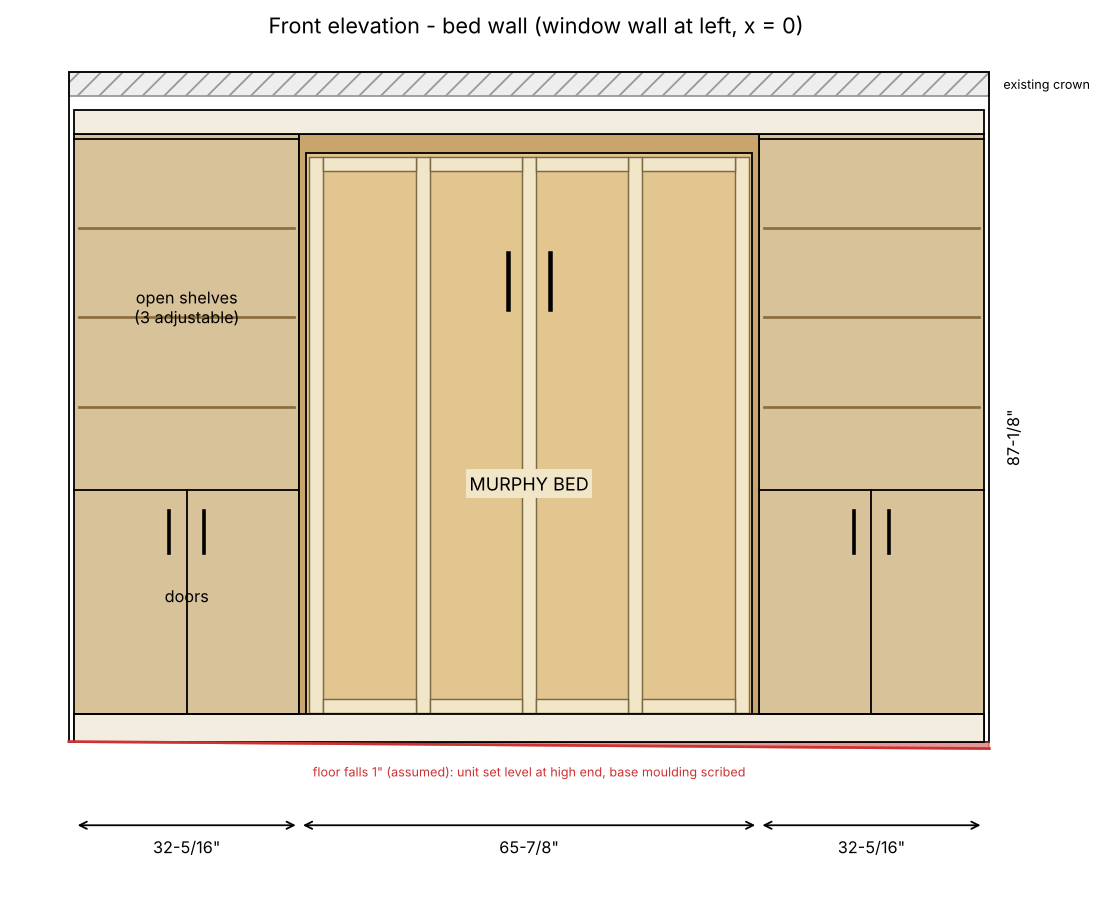
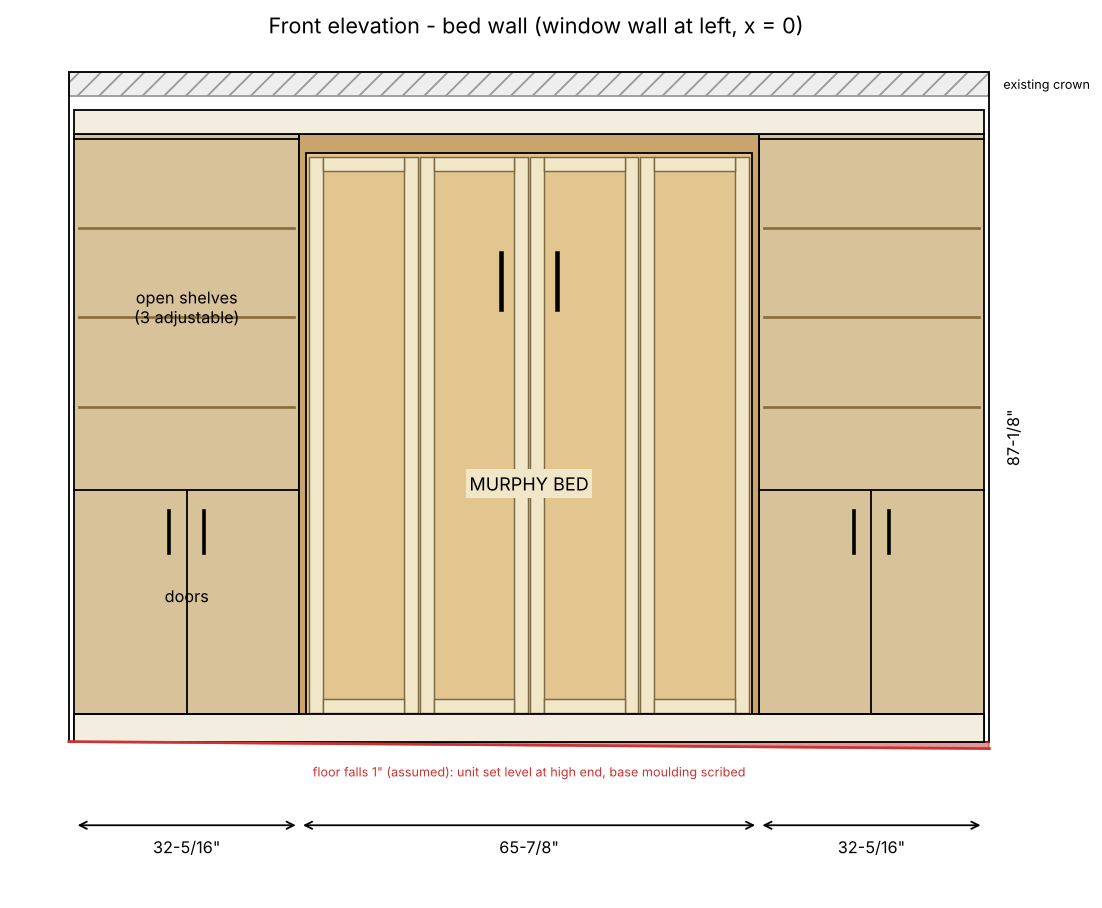
Switch face paneling to mitred frames of crown-family panel moulding; weight limits and tests
Claude-Session: https://claude.ai/code/session_01KugbWEtLNVU8bq7dW5xBvy

Changed region(s): [[0.5554, 0.1542, 0.6171, 0.8018], [0.3394, 0.1542, 0.4011, 0.8018], [0.4319, 0.1542, 0.5245, 0.8018]]

diff --git a/murphy-bed/design.py b/murphy-bed/design.py
@@ -52,15 +52,20 @@ HEADER_FRONT_RAIL = 2.75  # plans p.6 part H front rail covers the top of the op
 FACE_PANEL_BOTTOM = BED_H - HEADER_FRONT_RAIL - FACE_PANEL_H   # ~2-5/8" above the floor
 FACE_PANEL_W = 64.0     # two 32" panels side by side (plans p.6 part E)
 FACE_PANEL_STYLE = 'full'   # kit p.3: 'full' = full-length stiles, 'split' = adds a middle rail
-FACE_TRIM_W, FACE_TRIM_T = 2.0, 0.25   # flat strips applied to the panel (ASSUMED; thin to save weight)
+FACE_TRIM_KIND = 'frames'   # 'frames' = one mitred frame of profiled panel moulding per panel (crown-family profile); 'flat' = 1/4" flat strips
+FACE_TRIM_W = 2.0       # moulding face width (ASSUMED)
+FACE_TRIM_T = 0.75 if FACE_TRIM_KIND == 'frames' else 0.25   # moulding thickness, ASSUMED 3/4" stock
+FACE_PROFILE_FILL = 2 / 3   # ASSUMED: share of the 3/4 x 2 rectangle left after the profile is cut
+FACE_TRIM_AREA = FACE_TRIM_W * FACE_TRIM_T * FACE_PROFILE_FILL   # sq in cross-section (about 1.0 for 3/4 x 2)
+FACE_FRAME_GAP = 0.25   # gap between neighbouring frames; the centre gap sits over the seam between the two 32" panels
 FACE_TRIM_INSET = 0.5   # strips stay this far inside the panel edges so nothing catches on the verticals/header
 FACE_TRIM_BOTTOM = max(FACE_TRIM_INSET, BASE_H + 0.125 - FACE_PANEL_BOTTOM)   # keep strips above the base moulding
 FACE_SPLIT_Z = 29.0     # split style: bottom of the middle rail, measured up from the panel bottom
 FACE_TRIM_DENSITY = 0.0162   # lb per cubic inch, poplar (~28 lb/ft^3); MDF is ~0.0278
 PLY_DENSITY = 0.0226    # lb per cubic inch, birch plywood (~39 lb/ft^3)
-MATTRESS_LB = 70.0      # ASSUMED: weigh yours. Kit spec for a queen is 65-80 lb (plans p.1)
+MATTRESS_LB = 65.0      # ASSUMED: the lightest queen the kit allows; weigh yours. Kit spec is 65-80 lb (plans p.1)
 MATTRESS_MAX_LB = 80.0
-HANDLE_OFFSET = 3.0     # handle centre distance from the panel centre line
+HANDLE_OFFSET = 4.0     # handle centre distance from the panel centre line
 HANDLE_Z = (62.0, 70.0)  # handle bar height above the floor (kit says 5'-6')
 LOWER_H = 36.0          # top of lower (doored) section
 KERF = 0.125            # user's saw blade is at least 1/8"; every cut in the layouts costs this much
@@ -131,9 +136,20 @@ def tower_parts():
 
 
 def face_trim_layout():
-    """Flat strips applied to the face panels, in panel coordinates (x from left edge, z from bottom edge)."""
+    """Applied moulding on the face panels, as non-overlapping pieces in panel coordinates (x from left edge, z from bottom edge).
+    Frame style: rails are shown between the stiles; their cut length (mitre long point) is longer, see face_trim_parts()."""
     inset, sw, bot = FACE_TRIM_INSET, FACE_TRIM_W, FACE_TRIM_BOTTOM
     frame_w, frame_h = FACE_PANEL_W - 2 * inset, FACE_PANEL_H - inset - bot
+    if FACE_TRIM_KIND == 'frames':
+        fw = (frame_w - 3 * FACE_FRAME_GAP) / 4
+        out = []
+        for i in range(4):
+            x0 = inset + i * (fw + FACE_FRAME_GAP)
+            out.append(('Face frame stile', x0, bot, sw, frame_h))
+            out.append(('Face frame stile', x0 + fw - sw, bot, sw, frame_h))
+            out.append(('Face frame rail', x0 + sw, bot, fw - 2 * sw, sw))
+            out.append(('Face frame rail', x0 + sw, bot + frame_h - sw, fw - 2 * sw, sw))
+        return out
     opening = (frame_w - 5 * sw) / 4
     out = [('Face moulding stile', inset + i * (opening + sw), bot, sw, frame_h) for i in range(5)]
     for j in range(4):
@@ -145,14 +161,29 @@ def face_trim_layout():
     return out
 
 
+def _cut_length(name, w, h):
+    """Length to buy/cut for one piece: frame rails are mitred, so they run to the long point (inner length + 2 x width)."""
+    if FACE_TRIM_KIND == 'frames' and 'rail' in name:
+        return w + 2 * FACE_TRIM_W
+    return max(w, h)
+
+
+def face_trim_pieces():
+    return [(n, _cut_length(n, w, h)) for n, _, _, w, h in face_trim_layout()]
+
+
 def face_trim_parts():
-    count = Counter((n, round(w, 4), round(h, 4)) for n, _, _, w, h in face_trim_layout())
-    return [Part(n, 'facetrim', 'solid', q, min(w, h), max(w, h), f'{frac(FACE_TRIM_T)} thick; square cuts, glue + 18 ga brads')
-            for (n, w, h), q in count.items()]
+    count = Counter((n, round(l, 4)) for n, l in face_trim_pieces())
+    if FACE_TRIM_KIND == 'frames':
+        note = f'{frac(FACE_TRIM_T)} x {frac(FACE_TRIM_W)} panel moulding, mitre both ends 45 degrees, length to the long point; glue + 1-1/4" 18 ga brads'
+    else:
+        note = f'{frac(FACE_TRIM_T)} thick; square cuts, glue + 18 ga brads'
+    return [Part(n, 'facetrim', 'solid', q, FACE_TRIM_W, l, note) for (n, l), q in count.items()]
 
 
 def face_trim_weight_lb():
-    return sum(w * h for _, _, _, w, h in face_trim_layout()) * FACE_TRIM_T * FACE_TRIM_DENSITY
+    area = FACE_TRIM_W * FACE_TRIM_T * (FACE_PROFILE_FILL if FACE_TRIM_KIND == 'frames' else 1.0)
+    return sum(l for _, l in face_trim_pieces()) * area * FACE_TRIM_DENSITY
 
 
 def moving_mass_lb():
@@ -364,18 +395,17 @@ vertical **and** each tower side: **{frac(notch_h)} tall x {frac(notch_d)} deep*
 - Iron slowly at medium-high heat, press with a block, trim the overhang with a banding trimmer or sharp chisel,
   and lightly sand the edge flush. Do the end grain first, then the long edges.
 
-## 5. Face-panel moulding ({FACE_PANEL_STYLE}-length style, kit p.3)
+## 5. Face-panel moulding ({"mitred frames in the crown's profile family" if FACE_TRIM_KIND == "frames" else FACE_PANEL_STYLE + "-length strips"})
 
-- **Layout.** Flat {frac(FACE_TRIM_W)} x {frac(FACE_TRIM_T)} strips on the two 32" face panels: 5 full-height stiles (the centre one covers the seam between the panels)
-  with short rails top and bottom{" and a middle rail" if FACE_PANEL_STYLE == "split" else ""}, making 4 equal panels about {frac((FACE_PANEL_W - 2 * FACE_TRIM_INSET - 5 * FACE_TRIM_W) / 4)} wide.
+{"- **Profile.** Ask the supplier for panel (picture-frame) moulding in the same family as your crown: same maker or the same curve, about 3/4 x 2 stock. Take a 6 inch offcut of the existing crown with you so they can match the curve." + chr(10) if FACE_TRIM_KIND == "frames" else ""}- **Layout.** {"Four mitred frames, one per panel, 8 stiles and 8 rails. Each frame is " + frac((FACE_PANEL_W - 2 * FACE_TRIM_INSET - 3 * FACE_FRAME_GAP) / 4) + " wide outside, with " + frac(FACE_FRAME_GAP) + " between frames. The centre gap sits over the seam between the two 32 inch face panels, so no frame crosses it." if FACE_TRIM_KIND == "frames" else "Flat strips with five full-height stiles and short rails top and bottom."}
   Keep everything {frac(FACE_TRIM_INSET)} inside the side and top edges so nothing catches on the cabinet verticals or the header as the bed swings, and start the
   bottom rail {frac(FACE_TRIM_BOTTOM)} up from the panel's bottom edge so it clears the {frac(BASE_H)} base moulding.
-- **Cutting and fastening.** Square cuts; rails butt between stiles. Glue and 5/8" 18 ga brads into the plywood only. Do not use anything longer than the panel is thick.
-  The strips stand {frac(FACE_TRIM_T)} proud of the panel, which puts them {frac(FACE_TRIM_T - 0.125)} proud of the cabinet front.
-- **Handles** (5'-6' high on the kit's p.21): bars {frac(HANDLE_OFFSET)} either side of the centre stile, which leaves {frac(HANDLE_OFFSET - 0.25 - FACE_TRIM_W / 2)} to the stile.
-- **Weight.** About {face_trim_weight_lb():.1f} lb of moulding. The kit sets the queen springs at #5 on a 1-5 scale and its instructions only describe turning the setting *down*
-  (assembly booklet p.11), so the springs have no extra power in reserve. Add the moulding **before** you balance the bed, then choose a mattress with
-  mattress + moulding at or below {MATTRESS_MAX_LB:.0f} lb (about {MATTRESS_MAX_LB - face_trim_weight_lb():.0f} lb mattress or lighter). Keep strips thin; 3/4" solid moulding would be several times this weight.
+- **Cutting.** {"Mitre both ends at 45 degrees, measuring each piece to the long point (stiles " + frac(FACE_PANEL_H - FACE_TRIM_INSET - FACE_TRIM_BOTTOM) + ", rails " + frac((FACE_PANEL_W - 2 * FACE_TRIM_INSET - 3 * FACE_FRAME_GAP) / 4) + "). Cut all eight stiles and eight rails from one setup so the frames match, cut a spare of each, and dry-fit a frame on the panel before gluing. Check the mitres on a flat surface first." if FACE_TRIM_KIND == "frames" else "Square cuts; rails butt between stiles."}
+- **Fastening.** Glue and 1-1/4 inch 18 ga brads into the plywood panel only (no longer than 1-1/4 inch: 3/4 inch of moulding plus 1/2 inch into the 3/4 inch panel, so nothing pokes through the back). The moulding stands {frac(FACE_TRIM_T)} proud of the panel, which puts it {frac(FACE_TRIM_T - 0.125)} proud of the cabinet front, a raised-panel look. It still passes under the header rail with {frac(BED_H - HEADER_FRONT_RAIL - (FACE_PANEL_BOTTOM + FACE_PANEL_H - FACE_TRIM_INSET))} to spare.
+- **Handles** (5 to 6 feet high, kit p.21): bars {frac(HANDLE_OFFSET)} either side of the centre seam, inside the two middle panels, which leaves {frac(HANDLE_OFFSET - 0.25 - (FACE_FRAME_GAP / 2 + FACE_TRIM_W if FACE_TRIM_KIND == "frames" else FACE_TRIM_W / 2))} to the nearest moulding.
+- **Weight.** About {face_trim_weight_lb():.1f} lb of moulding in solid poplar (the cross-section is an estimate, so weigh a sample piece). The kit sets the queen springs at #5 on a 1-5 scale and its instructions only describe turning the setting *down*
+  (assembly booklet p.11), so the springs have no extra power in reserve. Add the moulding **before** you balance the bed, and choose a mattress that, with the moulding,
+  stays at or below {MATTRESS_MAX_LB:.0f} lb: {math.floor(MATTRESS_MAX_LB - face_trim_weight_lb())} lb or lighter. If the mattress you want is heavier, thin the moulding or go back to the flat-strip option.
   Create-A-Bed's advice is to call them before modifying the bed, so this is your call to make; a quick call about the springs is cheap insurance.
 
 ## 6. Order of work
@@ -411,7 +441,7 @@ def write_reports(outdir):
               f'{frac(SCRIBE)} fitting gap at each wall. Everything {frac(BED_H)} tall + {frac(NEW_CROWN_H)} crown '
               f'= {frac(BED_H + NEW_CROWN_H)} under a {frac(CEIL_H)} ceiling.\n')
     for title, grp in (('Murphy bed cabinet (Create-A-Bed plans, do not alter)', bed), ('Shelf towers (x2, mirror-identical)', tower),
-                       (f'Face panel moulding ({FACE_PANEL_STYLE}-length style, kit p.3; applied to the bed face)', face)):
+                       (f'Face panel moulding ({"mitred frames, one per panel" if FACE_TRIM_KIND == "frames" else FACE_PANEL_STYLE + "-length strips"}; applied to the bed face)', face)):
         md.append(f'## {title}\n')
         md.append('| Part | Material | Qty | Width | Length | Notes |')
         md.append('|---|---|---|---|---|---|')
@@ -441,10 +471,12 @@ def write_reports(outdir):
            '- #8 x 1-1/4" and 1-1/2" screws, glue, 1-1/2" finish nails (per kit BOM)']
     md.append('\n## Assumptions to verify\n')
     fw = face_trim_weight_lb()
-    md += [f'- Face moulding adds about {fw:.1f} lb ({frac(FACE_TRIM_W)} x {frac(FACE_TRIM_T)} poplar strips; about {fw * 0.0278 / FACE_TRIM_DENSITY:.1f} lb if MDF). '
+    kind_txt = ('mitred frames of 3/4 x 2 profiled panel moulding' if FACE_TRIM_KIND == 'frames'
+                else f'{frac(FACE_TRIM_W)} x {frac(FACE_TRIM_T)} flat strips')
+    md += [f'- Face moulding ({kind_txt}) adds about {fw:.1f} lb in solid poplar (MDF would be about {fw * 0.0278 / FACE_TRIM_DENSITY:.1f} lb). '
            f'Rough moving mass of the bed without mattress is ~{moving_mass_lb():.0f} lb. The kit rates a queen mattress at 65-80 lb and sets the springs at #5, '
-           f'the top of their 1-5 scale, so keep mattress + moulding at or below {MATTRESS_MAX_LB:.0f} lb: with this moulding, a mattress up to about {MATTRESS_MAX_LB - fw:.0f} lb (weigh yours).',
-           f'- Ceiling {frac(CEIL_H)}, measured from the HIGH point of the floor (floor is NOT level)',
+           f'the top of their 1-5 scale, so keep mattress + moulding at or below {MATTRESS_MAX_LB:.0f} lb: with this moulding the mattress should be {math.floor(MATTRESS_MAX_LB - fw)} lb or lighter (weigh yours; the moulding cross-section is an estimate, weigh a sample piece).',
+                      f'- Ceiling {frac(CEIL_H)}, measured from the HIGH point of the floor (floor is NOT level)',
            f'- Existing crown {frac(EXIST_CROWN_H)} tall x {frac(EXIST_CROWN_PROJ)} proud; new crown {frac(NEW_CROWN_H)} tall (matches style, not measured)',
            f'- Gap between new crown top ({frac(BED_H + NEW_CROWN_H)}) and bottom of existing crown ({frac(CEIL_H - EXIST_CROWN_H)}) is {frac(CEIL_H - EXIST_CROWN_H - BED_H - NEW_CROWN_H)} on a level floor. With a {frac(FLOOR_DROP)} floor drop the unit is set level from the HIGH end of the floor, so the gap shrinks to {frac(CEIL_H - EXIST_CROWN_H - BED_H - NEW_CROWN_H - FLOOR_DROP)}. Ceiling must be measured from the high point of the floor.',
            f'- Floor not level (assumed {frac(FLOOR_DROP)} across the wall): level and plumb the bed cabinet FIRST on shims at the high point, set the towers to match its top, then scribe the base moulding to the floor. Shims go behind the base moulding. The bed cabinet must be plumb or the face-panel gap will be uneven (plans, assembly p.11 steps 19-20).',

diff --git a/murphy-bed/test_design.py b/murphy-bed/test_design.py
@@ -266,13 +266,25 @@ class FacePanelMoulding(unittest.TestCase):
                 self.assertFalse(ox > EPS and oz > EPS, f'{n1} overlaps {n2}')
 
     def test_panels_are_real_panels(self):
-        stiles = sorted(x for n, x, z, w, h in self.rects() if n == 'Face moulding stile')
+        r = self.rects()
+        if d.FACE_TRIM_KIND == 'frames':
+            stiles = sorted(x for n, x, z, w, h in r if n == 'Face frame stile')
+            self.assertEqual(len(stiles), 8)
+            fw = (d.FACE_PANEL_W - 2 * d.FACE_TRIM_INSET - 3 * d.FACE_FRAME_GAP) / 4
+            self.assertGreater(fw - 2 * d.FACE_TRIM_W, 6, 'frame opening too small to read as a panel')
+            # the gap between frames 2 and 3 is centred on the seam between the two 32" face panels
+            gap_left = stiles[3] + d.FACE_TRIM_W
+            gap_right = stiles[4]
+            self.assertAlmostEqual((gap_left + gap_right) / 2, d.FACE_PANEL_W / 2)
+            self.assertAlmostEqual(gap_right - gap_left, d.FACE_FRAME_GAP)
+            self.assertGreaterEqual(d.FACE_FRAME_GAP, 0.125, 'frames must not touch: they bind and the seam shows')
+            return
+        stiles = sorted(x for n, x, z, w, h in r if n == 'Face moulding stile')
         self.assertEqual(len(stiles), 5)
         gaps = [stiles[i + 1] - stiles[i] - d.FACE_TRIM_W for i in range(4)]
         for g in gaps:
             self.assertAlmostEqual(g, gaps[0])
             self.assertGreater(g, 6)
-        # centre stile covers the seam between the two 32" face panels
         self.assertAlmostEqual(stiles[2] + d.FACE_TRIM_W / 2, d.FACE_PANEL_W / 2)
 
     def test_handles_clear_every_strip(self):
@@ -286,7 +298,21 @@ class FacePanelMoulding(unittest.TestCase):
     def test_moulding_barely_proud_of_the_cabinet_front(self):
         fronts = {round(y + dy, 4) for n, g, x, y, z, dx, dy, dz in d.boxes() if g == 'facetrim'}
         self.assertEqual(len(fronts), 1)
-        self.assertLessEqual(fronts.pop() - d.BED_D, 0.5)
+        self.assertLessEqual(fronts.pop() - d.BED_D, 1.0)
+
+    def test_moulding_passes_under_the_header_rail(self):
+        top = max(d.FACE_PANEL_BOTTOM + z + h for n, x, z, w, h in self.rects())
+        self.assertGreaterEqual(d.BED_H - d.HEADER_FRONT_RAIL - top, 0.25)
+
+    def test_frame_pieces_are_cut_to_the_mitre_long_point(self):
+        if d.FACE_TRIM_KIND != 'frames':
+            self.skipTest('flat strips use square cuts')
+        parts = {p.name: p for p in d.face_trim_parts()}
+        self.assertEqual(parts['Face frame stile'].qty, 8)
+        self.assertEqual(parts['Face frame rail'].qty, 8)
+        fw = (d.FACE_PANEL_W - 2 * d.FACE_TRIM_INSET - 3 * d.FACE_FRAME_GAP) / 4
+        self.assertAlmostEqual(parts['Face frame rail'].l, fw)           # inner length + 2 x width = outside width
+        self.assertAlmostEqual(parts['Face frame stile'].l, d.FACE_PANEL_H - d.FACE_TRIM_INSET - d.FACE_TRIM_BOTTOM)
 
     def test_face_panel_matches_the_kit(self):
         face = [b for b in d.boxes() if b[0] == 'bed face (closed)'][0]
@@ -297,19 +323,18 @@ class FacePanelMoulding(unittest.TestCase):
     def test_model_and_cut_list_agree(self):
         self.assertEqual(sum(1 for b in d.boxes() if b[1] == 'facetrim'), len(d.face_trim_layout()))
         listed = sum(p.qty * p.l for p in d.face_trim_parts())
-        laid = sum(max(w, h) for n, x, z, w, h in d.face_trim_layout())
-        self.assertAlmostEqual(listed, laid)
+        self.assertAlmostEqual(listed, sum(l for _, l in d.face_trim_pieces()))
 
     def test_weight_stays_inside_the_kits_mattress_budget(self):
         w = d.face_trim_weight_lb()
-        self.assertLess(w, 7.5)                                  # under half of the kit's 65-80 lb mattress band
-        self.assertLess(w / (d.moving_mass_lb() + d.MATTRESS_LB), 0.05)
+        self.assertLess(w, 15.0, 'moulding this heavy needs a conversation with the manufacturer')
+        self.assertLess(w / (d.moving_mass_lb() + d.MATTRESS_LB), 0.08)
         self.assertLessEqual(d.MATTRESS_LB + w, d.MATTRESS_MAX_LB,
                              'mattress + moulding exceeds the 80 lb the springs are set for')
 
     def test_split_style_also_works(self):
-        saved = d.FACE_PANEL_STYLE
-        d.FACE_PANEL_STYLE = 'split'
+        saved = (d.FACE_PANEL_STYLE, d.FACE_TRIM_KIND)
+        d.FACE_PANEL_STYLE, d.FACE_TRIM_KIND = 'split', 'flat'
         try:
             rects = d.face_trim_layout()
             self.assertEqual(sum(1 for r in rects if r[0] == 'Face moulding middle rail'), 4)
@@ -318,7 +343,7 @@ class FacePanelMoulding(unittest.TestCase):
                 for n, x, z, w, h in rects:
                     self.assertFalse((hx + 0.25 > x and hx - 0.25 < x + w) and (hz1 > z and hz0 < z + h), n)
         finally:
-            d.FACE_PANEL_STYLE = saved
+            d.FACE_PANEL_STYLE, d.FACE_TRIM_KIND = saved
 
 
 class RoomRenders(unittest.TestCase):

diff --git a/murphy-bed/out/trim_guide.md b/murphy-bed/out/trim_guide.md
@@ -48,18 +48,18 @@ vertical **and** each tower side: **4-5/8" tall x 5/8" deep**. For the 1/4" towe
 - Iron slowly at medium-high heat, press with a block, trim the overhang with a banding trimmer or sharp chisel,
   and lightly sand the edge flush. Do the end grain first, then the long edges.
 
-## 5. Face-panel moulding (full-length style, kit p.3)
+## 5. Face-panel moulding (mitred frames in the crown's profile family)
 
-- **Layout.** Flat 2" x 1/4" strips on the two 32" face panels: 5 full-height stiles (the centre one covers the seam between the panels)
-  with short rails top and bottom, making 4 equal panels about 13-1/4" wide.
+- **Profile.** Ask the supplier for panel (picture-frame) moulding in the same family as your crown: same maker or the same curve, about 3/4 x 2 stock. Take a 6 inch offcut of the existing crown with you so they can match the curve.
+- **Layout.** Four mitred frames, one per panel, 8 stiles and 8 rails. Each frame is 15-9/16" wide outside, with 1/4" between frames. The centre gap sits over the seam between the two 32 inch face panels, so no frame crosses it.
   Keep everything 1/2" inside the side and top edges so nothing catches on the cabinet verticals or the header as the bed swings, and start the
   bottom rail 1-1/2" up from the panel's bottom edge so it clears the 4" base moulding.
-- **Cutting and fastening.** Square cuts; rails butt between stiles. Glue and 5/8" 18 ga brads into the plywood only. Do not use anything longer than the panel is thick.
-  The strips stand 1/4" proud of the panel, which puts them 1/8" proud of the cabinet front.
-- **Handles** (5'-6' high on the kit's p.21): bars 3" either side of the centre stile, which leaves 1-3/4" to the stile.
-- **Weight.** About 4.1 lb of moulding. The kit sets the queen springs at #5 on a 1-5 scale and its instructions only describe turning the setting *down*
-  (assembly booklet p.11), so the springs have no extra power in reserve. Add the moulding **before** you balance the bed, then choose a mattress with
-  mattress + moulding at or below 80 lb (about 76 lb mattress or lighter). Keep strips thin; 3/4" solid moulding would be several times this weight.
+- **Cutting.** Mitre both ends at 45 degrees, measuring each piece to the long point (stiles 79-3/4", rails 15-9/16"). Cut all eight stiles and eight rails from one setup so the frames match, cut a spare of each, and dry-fit a frame on the panel before gluing. Check the mitres on a flat surface first.
+- **Fastening.** Glue and 1-1/4 inch 18 ga brads into the plywood panel only (no longer than 1-1/4 inch: 3/4 inch of moulding plus 1/2 inch into the 3/4 inch panel, so nothing pokes through the back). The moulding stands 3/4" proud of the panel, which puts it 5/8" proud of the cabinet front, a raised-panel look. It still passes under the header rail with 1/2" to spare.
+- **Handles** (5 to 6 feet high, kit p.21): bars 4" either side of the centre seam, inside the two middle panels, which leaves 1-5/8" to the nearest moulding.
+- **Weight.** About 12.4 lb of moulding in solid poplar (the cross-section is an estimate, so weigh a sample piece). The kit sets the queen springs at #5 on a 1-5 scale and its instructions only describe turning the setting *down*
+  (assembly booklet p.11), so the springs have no extra power in reserve. Add the moulding **before** you balance the bed, and choose a mattress that, with the moulding,
+  stays at or below 80 lb: 67 lb or lighter. If the mattress you want is heavier, thin the moulding or go back to the flat-strip option.
   Create-A-Bed's advice is to call them before modifying the bed, so this is your call to make; a quick call about the springs is cheap insurance.
 
 ## 6. Order of work

diff --git a/murphy-bed/out/cutlist.md b/murphy-bed/out/cutlist.md
@@ -34,12 +34,12 @@ Centered layout on an 11 ft wall: towers 32-5/16" wide each, bed cabinet 65-7/8"
 | Tower back | 1/4 ply | 2 | 32-5/16" | 87-1/8" |  |
 | Scribe strip (rip to fit walls) | 3/4 ply | 2 | 3" | 87-1/8" | face-attached to outer tower sides |
 
-## Face panel moulding (full-length style, kit p.3; applied to the bed face)
+## Face panel moulding (mitred frames, one per panel; applied to the bed face)
 
 | Part | Material | Qty | Width | Length | Notes |
 |---|---|---|---|---|---|
-| Face moulding stile | solid | 5 | 2" | 79-3/4" | 1/4" thick; square cuts, glue + 18 ga brads |
-| Face moulding rail | solid | 8 | 2" | 13-1/4" | 1/4" thick; square cuts, glue + 18 ga brads |
+| Face frame stile | solid | 8 | 2" | 79-3/4" | 3/4" x 2" panel moulding, mitre both ends 45 degrees, length to the long point; glue + 1-1/4" 18 ga brads |
+| Face frame rail | solid | 8 | 2" | 15-9/16" | 3/4" x 2" panel moulding, mitre both ends 45 degrees, length to the long point; glue + 1-1/4" 18 ga brads |
 
 ## Sheet goods
 
@@ -82,7 +82,7 @@ All sheet parts (bed cabinet and towers) are packed together with a 1/8" kerf be
 
 ## Assumptions to verify
 
-- Face moulding adds about 4.1 lb (2" x 1/4" poplar strips; about 7.0 lb if MDF). Rough moving mass of the bed without mattress is ~163 lb. The kit rates a queen mattress at 65-80 lb and sets the springs at #5, the top of their 1-5 scale, so keep mattress + moulding at or below 80 lb: with this moulding, a mattress up to about 76 lb (weigh yours).
+- Face moulding (mitred frames of 3/4 x 2 profiled panel moulding) adds about 12.4 lb in solid poplar (MDF would be about 21.2 lb). Rough moving mass of the bed without mattress is ~163 lb. The kit rates a queen mattress at 65-80 lb and sets the springs at #5, the top of their 1-5 scale, so keep mattress + moulding at or below 80 lb: with this moulding the mattress should be 67 lb or lighter (weigh yours; the moulding cross-section is an estimate, weigh a sample piece).
 - Ceiling 96", measured from the HIGH point of the floor (floor is NOT level)
 - Existing crown 3-1/2" tall x 3-1/2" proud; new crown 3-1/2" tall (matches style, not measured)
 - Gap between new crown top (90-5/8") and bottom of existing crown (92-1/2") is 1-7/8" on a level floor. With a 1" floor drop the unit is set level from the HIGH end of the floor, so the gap shrinks to 7/8". Ceiling must be measured from the high point of the floor.
